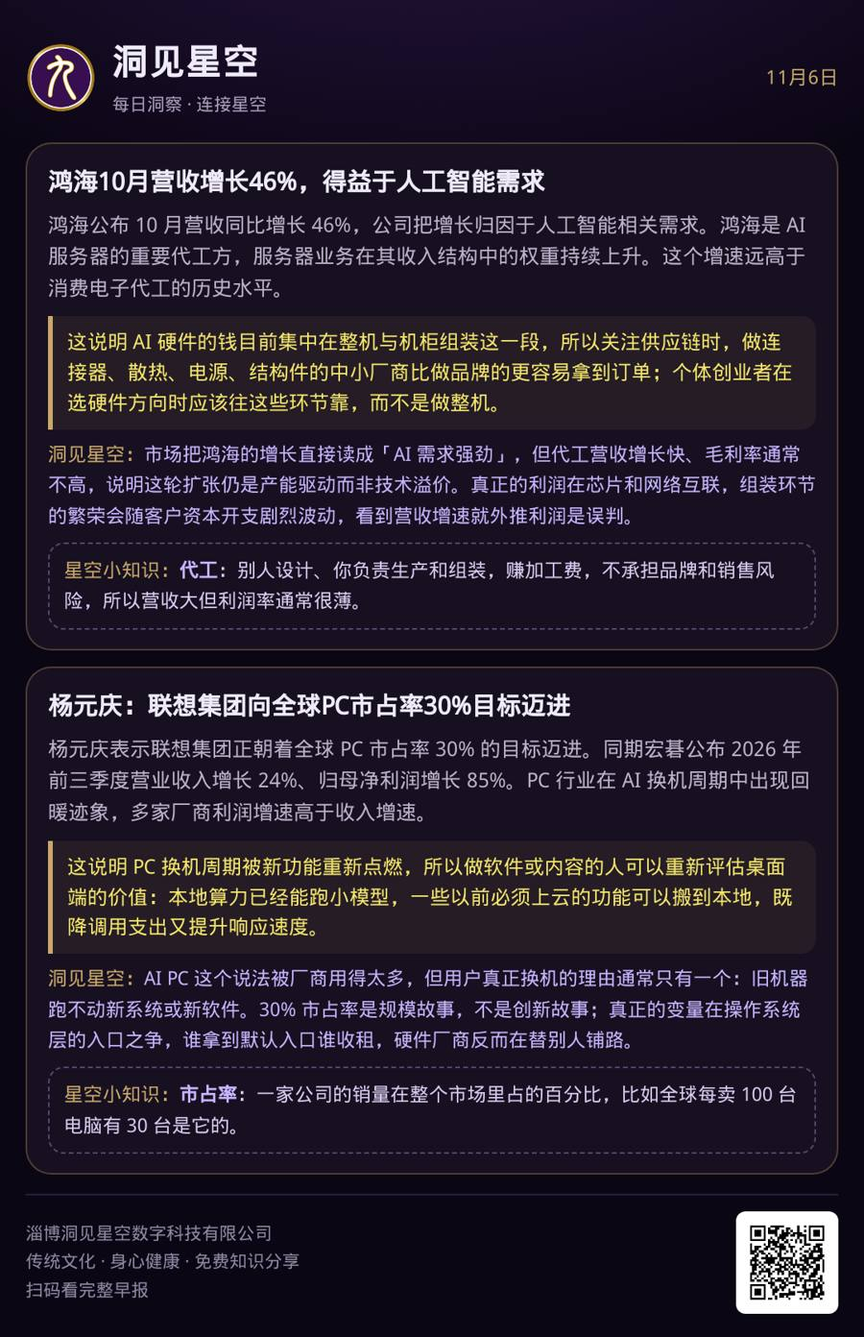
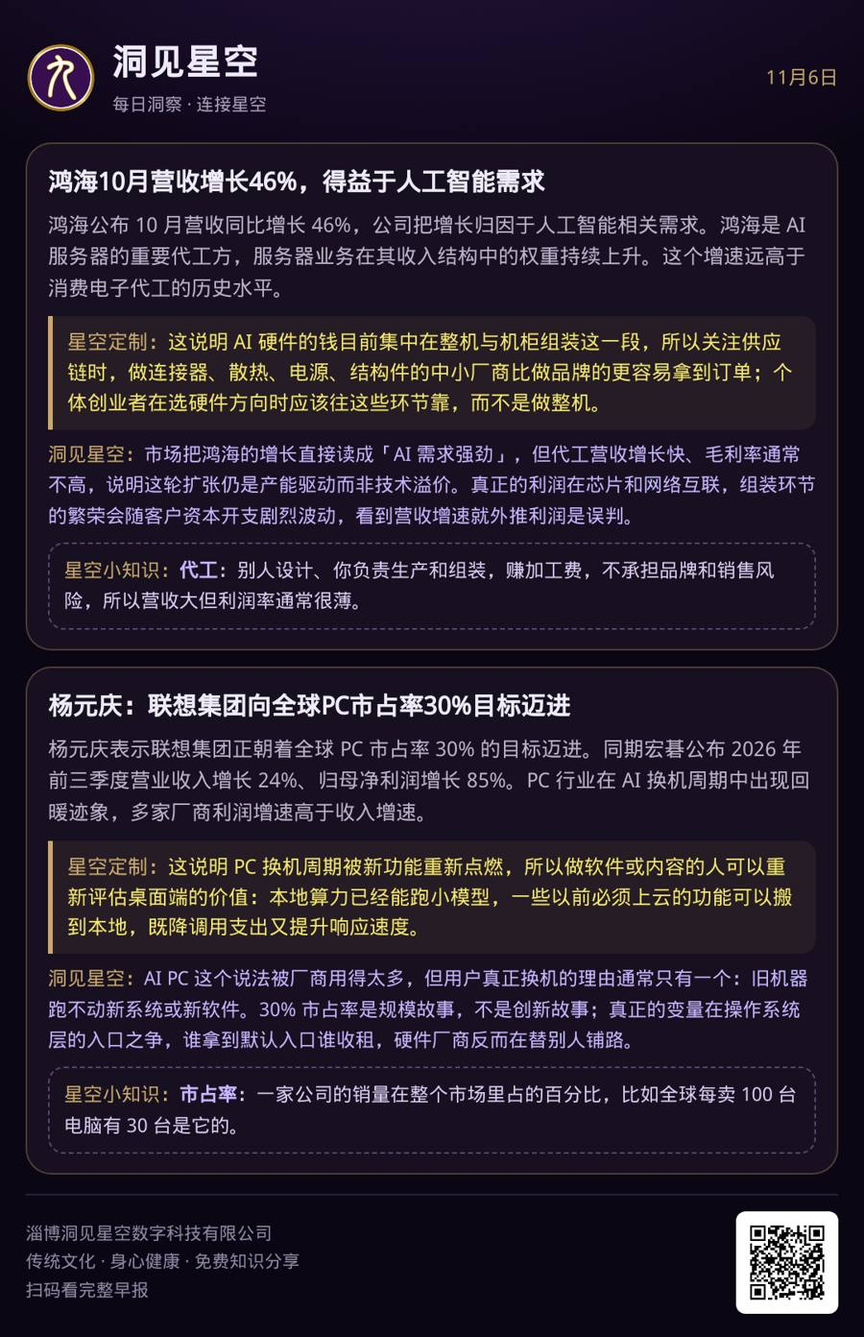
xingkong dingzhi label

Changed region(s): [[0.0622, 0.6178, 0.9333, 0.7105], [0.0622, 0.2471, 0.9022, 0.3089]]

diff --git a/2026-11-06.html b/2026-11-06.html
@@ -52,4 +52,4 @@ a{color:#b9a6ff;text-decoration:none}
 .teach{margin-top:10px;padding:10px 12px;border:1px dashed rgba(196,181,253,.35);border-radius:12px;font-size:13.5px;color:#d6ccf0}
 .teach b{color:var(--acc);font-weight:600}
 .foot{margin-top:44px;text-align:center;color:#5d5570;font-size:11px;letter-spacing:1.5px}
-.insight .tag,.teach .tag{color:#c9a86a;font-weight:600}</style></head><body><div class=grid></div><div class=wrap><div class=kicker>DONGJIAN · MORNING</div><div class=head><img class=logo src='logo.png' alt=logo><h1>洞见星空早报</h1></div><div class=sub>2026 年 11 月 6 日 · 星期五</div><h2>世界资讯 · 10</h2><div class=card><h3>银湖资本和PIF就收购游戏引擎公司Unity进行了谈判</h3><p>据报道，银湖资本与沙特公共投资基金（PIF）近期就收购游戏软件提供商 Unity 进行了谈判。Unity 是移动游戏与实时三维内容的主要开发引擎之一，大量中小开发者的作品依赖它发布。这意味着内容生产的基础工具再次成为私募资本的目标。目前谈判结果尚未公开。</p><div class=why>这说明内容生产工具的产权可能易主、授权条款可能重写，所以你在搭建内容制作流程时，要优先选导出格式通用、能被多个引擎和软件读取的方案，避免作品被单一平台的条款锁死。</div><div class=insight><span class=tag>洞见星空：</span>私募买引擎，看的是提价和订阅转化的空间，不是技术理想。主流叙事把引擎当成创作者生态，但资本视角里它更像收费站；一旦提价，中小开发者会向开源引擎和轻量网页方案迁移，下一轮工具洗牌会从定价开始，而不是从功能开始。</div><div class=teach><span class=tag>星空小知识：</span><b>游戏引擎</b>：一套用来做游戏和三维画面的软件工具，负责渲染、物理、动画，开发者在这套工具上写自己的内容，不用从零造轮子。</div><div class=chips><a class='chip acc' href='https://finance.sina.com.cn/stock/usstock/c/2026-11-06/doc-inixtxky8323323.shtml'>新浪财经</a></div></div><div class=card><h3>意力国际拟1.71亿港元收购Skyline VFX 67%股权，战略回归数码娱乐及AI媒体领域</h3><p>意力国际拟以 1.71 亿港元收购 Skyline VFX 67% 的股权，并称这是战略回归数码娱乐及 AI 媒体领域。Skyline VFX 是一家视觉特效制作公司，业务覆盖影视与广告特效。收购完成后，一家上市公司把业务重心重新拨回内容生产。</p><div class=why>这说明资本市场给「AI 加视觉内容生产」的估值仍高于传统业务，所以你如果做传统文化影像，可以把特效、虚拟制作、多语字幕这些重资产环节外包采购，团队只保留脚本、拍摄和内容判断。</div><div class=insight><span class=tag>洞见星空：</span>这轮 AI 媒体并购买的多数是产能和客户名单，不是算法。内容行业的价值正在重新回到 IP 与发行渠道，工具会被压成成本项；押注「做工具卖给创作者」的人要面对买方压价，押注「做出被记住的作品」的人反而能拿到溢价。</div><div class=teach><span class=tag>星空小知识：</span><b>视觉特效（VFX）</b>：影视和广告里实拍拍不出来的画面，靠后期软件合成出来，比如爆炸、妖兽、古代宫殿。</div><div class=chips><a class='chip acc' href='https://finance.sina.com.cn/stock/hkstock/ggscyd/2026-11-06/doc-inixtxmk5623464.shtml'>新浪财经</a></div></div><div class=card><h3>奥迪考虑追加投资30亿美元扩建美国新厂，增加3000个就业岗位</h3><p>奥迪考虑追加投资 30 亿美元扩建其美国新工厂，预计增加 3000 个就业岗位。这一决定与关税和本地化生产要求直接相关，欧洲车企正在把部分产能迁往销售市场当地。扩建涉及整车装配以及与电池相关的配套投资。</p><div class=why>这说明制造业正在按关税边界重新布局，所以做工业设计、设备说明书、技术培训类内容的人，会遇到一波「跨国工厂本地化」带来的多语种与培训资料需求，这类订单单价高、周期长，适合个体或小团队承接。</div><div class=insight><span class=tag>洞见星空：</span>产业本地化看上去创造就业，实际是把成本转嫁给消费者和供应链。真正的赢家不是单一整车品牌，而是能同时服务多地产线的设备与工业软件供应商；制造业的竞争力指标会从「规模」变成「多地合规生产的能力」。</div><div class=teach><span class=tag>星空小知识：</span><b>本地化生产</b>：不把车造好再运过去，而是直接在卖车的国家建厂生产，绕开关税和长途运输成本。</div><div class=chips><a class='chip acc' href='https://finance.sina.com.cn/stock/usstock/c/2026-11-06/doc-inixtxky8324781.shtml'>新浪财经</a></div></div><div class=card><h3>AI抛售潮中买家消失：高盛交易台电话被打爆却无人接盘，对冲基金与散户齐撤</h3><p>报道称在 AI 相关资产的抛售中，高盛交易台的电话被打爆，却找不到接盘方，对冲基金与散户同时撤出。同期有对冲基金在 10 月的 AI 股票上录得约 33% 的回撤。这反映的是流动性枯竭，而不只是价格下跌。</p><div class=why>这说明拥挤交易的退出通道很窄，所以你在选择任何与 AI 主题挂钩的理财产品时，要把「能不能及时退出」放在收益率前面，优先看开放日频率、底层资产是否透明，而不是看宣传的历史年化。</div><div class=insight><span class=tag>洞见星空：</span>主流把 AI 回调解释成「泡沫破裂」，但更准确的说法是仓位结构问题：当所有人持有同一批资产，价格发现机制会暂时失效。长期看，这类拥堵会推动资金流向叙事更分散、退出更方便的资产，而不是让人离场。</div><div class=teach><span class=tag>星空小知识：</span><b>流动性</b>：想卖的时候有没有人接手。有人接叫流动性好，没人接就只能一路降价甩卖，账面价格并不等于能拿到的钱。</div><div class=chips><a class='chip acc' href='https://finance.sina.com.cn/roll/2026-11-06/doc-inixtxmh8972935.shtml'>新浪财经</a></div></div><div class=card><h3>「大空头」伯里称无意买入Anthropic股票：将自身存亡押注在乐观预期上</h3><p>因做空次贷成名的投资人迈克尔·伯里表示无意买入 Anthropic 股票，理由是该公司把自身存亡押注在乐观预期上。Anthropic 是头部大模型公司之一，估值高度依赖企业级接口与企业服务的持续放量。这一表态出现在 AI 相关资产普遍回调的时点。</p><div class=why>这说明公开市场开始用现金流而不是故事给 AI 公司定价，所以你在选模型供应商时，要优先选有稳定企业客户、计费方式清晰的平台，避免把产品绑在靠融资续命的服务上，一旦对方调价或断供你无法迁移。</div><div class=insight><span class=tag>洞见星空：</span>主流观点认为头部模型公司「太大而不能倒」，但真正的风险不是倒闭，而是客户按价格迁移。模型能力差距在收敛，真正难被替代的是模型被嵌进工作流之后形成的切换成本，这部分价值会从模型公司转移到应用公司手里。</div><div class=teach><span class=tag>星空小知识：</span><b>企业级接口（API）</b>：程序调用另一个程序能力的通道，按调用量计费。模型公司最主要的收入来源之一就是把模型能力按次卖给别的公司。</div><div class=chips><a class='chip acc' href='https://finance.sina.com.cn/stock/usstock/c/2026-11-06/doc-inixtxma5108878.shtml'>新浪财经</a></div></div><div class=card><h3>微软对押注「新云」渐生悔意，加强审查部分数据中心项目</h3><p>据报道，微软正在加强对部分数据中心项目的审查，并对其押注「新云」模式渐生悔意。新云指专门为大模型训练出租图形处理器算力的新兴云服务商，靠长期租约锁定收入。微软此前是这类厂商最大的买家之一，如今开始重新核对租赁的期限与成本。</p><div class=why>这说明头部买家在给算力租赁踩刹车，所以你可以把「推理算力价格继续下行」当作产品设计前提，把重计算能力放在调用侧而不是自建侧，等价格下来再升级体验，不用现在就锁长约。</div><div class=insight><span class=tag>洞见星空：</span>市场普遍认为算力永远紧缺，但真正紧缺的是顶级训练集群，不是推理算力。当最大买主开始审查租约，说明供给端已经出现过冲，接下来一到两年推理单价会明显下滑，应用层的成本结构会被重写，靠卖算力赚钱的中间商最先受伤。</div><div class=teach><span class=tag>星空小知识：</span><b>新云（neocloud）</b>：不做综合云服务，只专门出租图形处理器算力给 AI 公司训练模型的新玩家，靠长期合同收租，本质是算力二房东。</div><div class=chips><a class='chip acc' href='https://finance.sina.com.cn/stock/usstock/c/2026-11-06/doc-inixtnvn9139462.shtml'>新浪科技</a></div></div><div class=card><h3>中期选举后民主党高层呼吁限制人工智能产业扩张：「立即暂停全国数据中心建设」</h3><p>中期选举后，民主党高层公开呼吁限制人工智能产业扩张，提出「立即暂停全国数据中心建设」。这一表态与美股大幅调整、AI 相关资产遭抛售出现在同一时间窗口。数据中心是训练与推理算力的物理载体，建设节奏直接决定芯片、电力、冷却设备的订单。AI 扩张第一次成为选举议题。</p><div class=why>这说明算力扩张的政治成本开始显性化，所以你在设计任何依赖大模型的产品时，要把「供应端政策变动」当成常态变量而不是意外，优先做能随时切到小模型或本地推理的方案，别把体验绑死在单一云厂商的某个机型上。</div><div class=insight><span class=tag>洞见星空：</span>主流把 AI 资本开支当成不可逆的军备竞赛，但电力、土地、水与地方政治才是真正的约束条件。一旦数据中心从「招商引资项目」变成「邻避设施」，扩张速度会被行政程序而不是芯片产能卡住。长期看算力会从集中训练转向分散推理，这对小团队是结构性利好。</div><div class=teach><span class=tag>星空小知识：</span><b>数据中心</b>：放服务器的地方，一栋楼里成千上万台机器同时跑，耗电和散热极大，所以建在哪里、用多少电都要政府批。</div><div class=chips><a class='chip acc' href='https://finance.sina.com.cn/stock/usstock/c/2026-11-06/doc-inixttce5171077.shtml'>新浪科技</a></div></div><div class=card><h3>嘉和美康被曝欠薪数月、全员降薪，部分项目加班费被要求退还</h3><p>据报道，医疗信息化公司嘉和美康被曝欠薪数月、全员降薪，部分项目的加班费被要求退还。报道称该公司近十年从未赚到真正意义上的利润。医疗信息化行业长期依赖医院项目制收入，回款周期长、定制化程度高。</p><div class=why>这说明项目制 To B 生意的现金流风险正在暴露，所以你在设计任何面向机构的产品或服务时，要坚持预付或分期到账，不要用「验收后付款」把自己绑死，尤其是对接事业单位和医院这类预算收紧的客户。</div><div class=insight><span class=tag>洞见星空：</span>医疗信息化的困境不是需求消失，而是付款方预算收紧叠加定制化过重，人力成本压不下去。行业会向标准化产品迁移，但速度快不了；真正活下来的是能把交付标准化、把每个项目的定制工时压到最低的少数厂商，规模大反而可能是负担。</div><div class=teach><span class=tag>星空小知识：</span><b>项目制</b>：一单一单按客户要求定制交付，钱要等验收之后才收，所以账面有收入但手上可能一直缺现金。</div><div class=chips><a class='chip acc' href='https://finance.sina.com.cn/stock/observe/2026-11-05/doc-inixsrrw9421431.shtml'>新浪科技</a></div></div><div class=card><h3>鸿海10月营收增长46%，得益于人工智能需求</h3><p>鸿海公布 10 月营收同比增长 46%，公司把增长归因于人工智能相关需求。鸿海是 AI 服务器的重要代工方，服务器业务在其收入结构中的权重持续上升。这个增速远高于消费电子代工的历史水平。</p><div class=why>这说明 AI 硬件的钱目前集中在整机与机柜组装这一段，所以关注供应链时，做连接器、散热、电源、结构件的中小厂商比做品牌的更容易拿到订单；个体创业者在选硬件方向时应该往这些环节靠，而不是做整机。</div><div class=insight><span class=tag>洞见星空：</span>市场把鸿海的增长直接读成「AI 需求强劲」，但代工营收增长快、毛利率通常不高，说明这轮扩张仍是产能驱动而非技术溢价。真正的利润在芯片和网络互联，组装环节的繁荣会随客户资本开支剧烈波动，看到营收增速就外推利润是误判。</div><div class=teach><span class=tag>星空小知识：</span><b>代工</b>：别人设计、你负责生产和组装，赚加工费，不承担品牌和销售风险，所以营收大但利润率通常很薄。</div><div class=chips><a class='chip acc' href='https://finance.sina.com.cn/stock/usstock/c/2026-11-05/doc-inixsrrw9425813.shtml'>新浪科技</a></div></div><div class=card><h3>杨元庆：联想集团向全球PC市占率30%目标迈进</h3><p>杨元庆表示联想集团正朝着全球 PC 市占率 30% 的目标迈进。同期宏碁公布 2026 年前三季度营业收入增长 24%、归母净利润增长 85%。PC 行业在 AI 换机周期中出现回暖迹象，多家厂商利润增速高于收入增速。</p><div class=why>这说明 PC 换机周期被新功能重新点燃，所以做软件或内容的人可以重新评估桌面端的价值：本地算力已经能跑小模型，一些以前必须上云的功能可以搬到本地，既降调用支出又提升响应速度。</div><div class=insight><span class=tag>洞见星空：</span>AI PC 这个说法被厂商用得太多，但用户真正换机的理由通常只有一个：旧机器跑不动新系统或新软件。30% 市占率是规模故事，不是创新故事；真正的变量在操作系统层的入口之争，谁拿到默认入口谁收租，硬件厂商反而在替别人铺路。</div><div class=teach><span class=tag>星空小知识：</span><b>市占率</b>：一家公司的销量在整个市场里占的百分比，比如全球每卖 100 台电脑有 30 台是它的。</div><div class=chips><a class='chip acc' href='https://finance.sina.com.cn/tob/2026-11-05/doc-inixsrrw9411130.shtml'>新浪科技</a></div></div><h2>科技 · 10</h2><div class=card><h3>极智嘉RS Hyper攀爬机器人首秀，千平方米每小时吞吐6000箱</h3><p>极智嘉在展会上首秀 RS Hyper 攀爬机器人，官方给出的指标是每千平方米每小时吞吐 6000 箱。攀爬式机器人可以在高位货架之间垂直移动，替代传统的升降机加输送线组合。仓储自动化正在从地面搬运转向立体存取。</p><div class=why>这说明立体仓储的单位面积效率又上了一个台阶，所以做实物周边或电商时可以把库存压到极低，用第三方仓的密度换自己的现金流，先验证内容带来的复购再谈备货。</div><div class=teach><span class=tag>星空小知识：</span><b>具身智能</b>：让 AI 有身体，能在真实空间里移动、抓取、操作物体，而不只是在屏幕里输出文字和图片。</div><div class=chips><a class='chip acc' href='https://finance.sina.com.cn/tob/2026-11-05/doc-inixsrrq8792885.shtml'>新浪科技</a></div></div><div class=card><h3>驭势科技升级T30无人牵引车，可自动脱挂钩对接拖斗</h3><p>驭势科技升级 T30 无人牵引车，新增自动脱挂钩能力，可以自行对接和脱离拖斗。自动脱挂钩是无人牵引车在港口、机场、工厂内部实现全流程无人化的最后几个卡点之一。此前这一步通常还需要人工介入。</p><div class=why>这说明封闭场景的无人运输已经能跑完整闭环，所以涉及线下场地运营（园区、仓库、演出场地、大型活动）的人，可以开始按「无人转运可用」来规划动线和人力配置，把搬运岗位的预算挪到内容与体验上。</div><div class=teach><span class=tag>星空小知识：</span><b>脱挂钩</b>：牵引车和拖斗之间的连接与分离，无人车要自己完成这个动作，才算全程不用人下车操作。</div><div class=chips><a class='chip acc' href='https://finance.sina.com.cn/tob/2026-11-05/doc-inixsrrs5544924.shtml'>新浪科技</a></div></div><div class=card><h3>菜鸟向合作伙伴开放全球仓网，加速物理AI产业化</h3><p>菜鸟宣布向合作伙伴开放其全球仓网，并提出加速「物理 AI」产业化。物理 AI 指把模型能力接到仓储、运输、分拣等真实设备上，而不只是屏幕里的对话。开放仓网意味着外部商家可以直接调用其海外仓储与履约节点，不必自建供应链。</p><div class=why>这说明跨境履约正在变成可调用的公共服务，所以做文化内容出海的人可以先验证内容能不能带来付费，再按订单量接入仓配，不必提前压库存、租海外仓。</div><div class=teach><span class=tag>星空小知识：</span><b>履约</b>：从用户下单到货送到手里这一段全过程，包括仓储、打包、干线运输和最后一公里配送。</div><div class=chips><a class='chip acc' href='https://finance.sina.com.cn/tech/it/2026-11-05/doc-inixtafu5952399.shtml'>新浪科技</a></div></div><div class=card><h3>爱立信张永涛：要打造「为AI而建的最佳网络」，让AI从理念走向现实</h3><p>爱立信高管在进博会期间表示，要打造「为 AI 而建的最佳网络」，让 AI 从理念走向现实。其判断是 AI 应用（视频、语音、多模态交互）对上行带宽与时延的要求远高于传统业务。运营商与设备商正把 AI 流量作为下一轮建网的依据。</p><div class=why>这说明网络侧正在为多模态交互改造，所以你做音频、视频类内容时，要按弱网和上行受限的极端条件设计缓存与降级策略，卡顿率会直接反映在完课率和复访率上。</div><div class=teach><span class=tag>星空小知识：</span><b>时延</b>：数据从发出到收到的时间差，越低越适合实时互动，比如语音对话和视频通话。</div><div class=chips><a class='chip acc' href='https://finance.sina.com.cn/roll/2026-11-05/doc-inixtafu5950983.shtml'>新浪科技</a></div></div><div class=card><h3>奥迪创新技术中心开业：聚焦驾驶辅助系统与AI智能座舱研发</h3><p>奥迪创新技术中心开业，聚焦驾驶辅助系统与 AI 智能座舱研发，并计划从 2028 年起陆续向中国市场投放四款全新车型。这意味着外资品牌把智能座舱的研发决策前移到中国市场。座舱 AI 的竞争点正从硬件屏幕转向语音与场景服务。</p><div class=why>这说明车载语音与场景服务会出现一波本土供应商窗口期，做语音内容、技能插件、场景脚本的团队值得在 2027 年前接触合资研发中心或一级供应商，越早进入越容易成为默认方案。</div><div class=teach><span class=tag>星空小知识：</span><b>智能座舱</b>：车里的那套屏幕、语音和车机系统，负责娱乐、导航、空调和人车对话，是车里面向乘客的那层 AI。</div><div class=chips><a class='chip acc' href='https://finance.sina.com.cn/tech/it/2026-11-05/doc-inixsvxn8721818.shtml'>新浪科技</a></div></div><div class=card><h3>华为鸿蒙电脑发货量破百万</h3><p>华为宣布鸿蒙电脑发货量突破百万台，公司称这是进入 PC 产业第十年的里程碑。鸿蒙电脑使用自研操作系统，应用生态仍在建设期。百万台放在 PC 行业里是很小的数字，但对一个新操作系统而言，是从零到一的门槛。</p><div class=why>这说明国产桌面系统开始有真实装机量，所以做内容或工具的人可以评估在鸿蒙上做一个轻量版本的成本与收益，平台早期缺应用，进入者更容易拿到资源位和推荐。</div><div class=teach><span class=tag>星空小知识：</span><b>应用生态</b>：一个操作系统上能用的软件和开发者总量，生态越大用户越离不开，越小越难吸引人换过来。</div><div class=chips><a class='chip acc' href='https://finance.sina.com.cn/tech/discovery/2026-11-05/doc-inixtafu5946837.shtml'>新浪科技</a></div></div><div class=card><h3>华为擎云HM650/HM650g面向政企客户，确认不在电商及线下体验门店出售</h3><p>华为擎云 HM650 / HM650g 面向政企客户，确认不在电商与线下体验门店出售。政企机型通过集采与渠道分销，不走消费者零售。这类产品强调的是可控、可管与长期供货，而不是参数性价比。</p><div class=why>这说明信创采购仍是独立渠道，所以面向机构的软件要按「进入集采目录 + 通过兼容性认证」来准备材料，走个人品牌和消费者路线进不去这个市场，两条路的打法完全不同。</div><div class=teach><span class=tag>星空小知识：</span><b>信创</b>：信息技术应用创新，指用国产软硬件替代国外产品，主要在政府和国企采购中推行，采购走专门目录。</div><div class=chips><a class='chip acc' href='https://finance.sina.com.cn/tech/digi/2026-11-05/doc-inixtafu5982695.shtml'>新浪科技</a></div></div><div class=card><h3>上汽与Momenta合作再深化，拟共建智驾合资公司</h3><p>上汽与 Momenta 的合作进一步深化，双方拟共同出资设立智能驾驶合资公司。Momenta 提供算法与数据闭环能力，上汽提供整车平台与量产规模。合资把原本的供应商关系变成了股权绑定。</p><div class=why>这说明算法公司正在被主机厂收进体内，所以做 AI 应用的团队在接大客户时，要先判断对方是想采购还是想控股：采购现金流快，合资天花板高但会稀释控制权，签之前就要想清楚要哪一种。</div><div class=teach><span class=tag>星空小知识：</span><b>数据闭环</b>：车在路上采集数据、回传训练模型、再把新模型推回车上，循环往复，模型就越来越强。</div><div class=chips><a class='chip acc' href='https://finance.sina.com.cn/tech/it/2026-11-05/doc-inixsvxw6063869.shtml'>新浪科技</a></div></div><div class=card><h3>比亚迪第二代海豹07上市：首搭云辇-M智能磁流变车身控制系统</h3><p>比亚迪第二代海豹 07 上市，首次搭载云辇-M 智能磁流变车身控制系统，置换价 13.59 万元起。磁流变减振器通过改变磁场来实时调节阻尼，响应速度远快于传统液压悬架。这项技术此前主要出现在高价车型上。</p><div class=why>这说明材料级技术正在快速下沉到十几万元车型，所以做汽车技术科普或后市场内容的人，在 2027 年前还有明显的素材红利，消费者试驾时能立刻感知的差异点会成为新的比较维度。</div><div class=teach><span class=tag>星空小知识：</span><b>阻尼</b>：减振器抑制车身弹跳的力度。阻尼大车身更稳更硬，阻尼小更软更舒适，磁流变可以毫秒级切换。</div><div class=chips><a class='chip acc' href='https://finance.sina.com.cn/tech/it/2026-11-05/doc-inixsvxq5541563.shtml'>新浪科技</a></div></div><div class=card><h3>英特尔亮相第九届进博会，展示高能效计算与生态合作成果</h3><p>英特尔在第九届进博会上展示高能效计算与生态合作成果。高能效计算的重点是在相同功耗下提供更多算力，主要面向数据中心与边缘设备。这与 AI 推理从云端下沉到终端的趋势一致，端侧能跑的任务正在变多。</p><div class=why>这说明推理算力正在向低功耗终端迁移，所以做 AI 功能时按「端侧跑小模型、云端跑大模型」分层设计，把高频轻量请求留在本地，能显著压低长期调用支出并提升响应速度。</div><div class=teach><span class=tag>星空小知识：</span><b>能效</b>：每瓦电能换来多少算力，越高越省电费。数据中心最大的成本之一就是电，所以这个指标比纯算力更受重视。</div><div class=chips><a class='chip acc' href='https://finance.sina.com.cn/roll/2026-11-05/doc-inixsrrq8787733.shtml'>新浪科技</a></div></div><h2>开源项目 · 10</h2><div class=card><div class=repo><div><div class=n><a href='https://github.com/Renhuai123/ziwei-doushu'>Renhuai123/ziwei-doushu</a></div><div class=d>紫微斗数开源排盘引擎，基于倪海厦《天纪》体系，包含完整排盘算法、四化系统、格局知识库与古籍原文数据，用 TypeScript 实现。</div></div><div class=s>★ 16206</div></div><div class=repo><div><div class=n><a href='https://github.com/SylarLong/iztro'>SylarLong/iztro</a></div><div class=d>轻量级紫微斗数排盘工具库，用于生成星盘数据结构，方便嵌入网页或其他应用。</div></div><div class=s>★ 4351</div></div><div class=repo><div><div class=n><a href='https://github.com/jangviktor-web/nihaixia'>jangviktor-web/nihaixia</a></div><div class=d>以倪海厦视角构建的中医 Agent Skill，基于其教学资料蒸馏伤寒论、金匮要略、黄帝内经、神农本草经、针灸等内容，覆盖六经辨证与八纲辨证。</div></div><div class=s>★ 4007</div></div><div class=repo><div><div class=n><a href='https://github.com/jinchenma94/bazi-skill'>jinchenma94/bazi-skill</a></div><div class=d>四柱八字命理分析技能包，用 Python 实现，可挂载到支持技能调用的模型平台上使用。</div></div><div class=s>★ 3815</div></div><div class=repo><div><div class=n><a href='https://github.com/DestinyLinker/MingLi-Bench'>DestinyLinker/MingLi-Bench</a></div><div class=d>面向中文传统命理（八字与紫微）的模型评测基准，用于量化评估大模型在这类问题上的表现。</div></div><div class=s>★ 2560</div></div><div class=repo><div><div class=n><a href='https://github.com/6tail/lunar-javascript'>6tail/lunar-javascript</a></div><div class=d>日历与历法工具库，支持公历、农历、老黄历、佛历、道历，以及节气、干支、生肖、每日宜忌等数据的计算。</div></div><div class=s>★ 1736</div></div><div class=repo><div><div class=n><a href='https://github.com/china-testing/bazi'>china-testing/bazi</a></div><div class=d>Python 八字排盘软件，能清晰展示冲刑合会、阴阳等关系，并整合了多年经验形成的评判规则，另含合婚、风水功能与手相教程。</div></div><div class=s>★ 1556</div></div></div><div class=card><div class=repo><div class=n style='color:#c9a86a'>热门 · 不限分类</div></div><div class=repo><div><div class=n><a href='https://github.com/cirosantilli/x86-bare-metal-examples'>cirosantilli/x86-bare-metal-examples</a></div><div class=d>几十个最小可运行的操作系统示例，用来学习 x86 底层系统编程，每个例子都能在虚拟机里跑起来。</div></div><div class=s>★ 5436</div></div><div class=repo><div><div class=n><a href='https://github.com/gege-circle/.github'>gege-circle/.github</a></div><div class=d>一个兴趣社群的公共仓库，用仓库的讨论区承载动漫、游戏、科技、人文、生活等话题的交流。</div></div><div class=s>★ 2081</div></div><div class=repo><div><div class=n><a href='https://github.com/OCNYang/QBox'>OCNYang/QBox</a></div><div class=d>一个安卓生活工具类 App 的开源项目，集成网络请求、图片加载等常用组件，内含新闻、笑话等多个模块。</div></div><div class=s>★ 1383</div></div></div><div class=foot>洞见星空 · 仅供学习交流，不构成投资建议</div></div></body></html>
+.insight .tag,.teach .tag{color:#c9a86a;font-weight:600}.why .tag{color:#c9a86a;font-weight:600}</style></head><body><div class=grid></div><div class=wrap><div class=kicker>DONGJIAN · MORNING</div><div class=head><img class=logo src='logo.png' alt=logo><h1>洞见星空早报</h1></div><div class=sub>2026 年 11 月 6 日 · 星期五</div><h2>世界资讯 · 10</h2><div class=card><h3>银湖资本和PIF就收购游戏引擎公司Unity进行了谈判</h3><p>据报道，银湖资本与沙特公共投资基金（PIF）近期就收购游戏软件提供商 Unity 进行了谈判。Unity 是移动游戏与实时三维内容的主要开发引擎之一，大量中小开发者的作品依赖它发布。这意味着内容生产的基础工具再次成为私募资本的目标。目前谈判结果尚未公开。</p><div class=why><span class=tag>星空定制：</span>这说明内容生产工具的产权可能易主、授权条款可能重写，所以你在搭建内容制作流程时，要优先选导出格式通用、能被多个引擎和软件读取的方案，避免作品被单一平台的条款锁死。</div><div class=insight><span class=tag>洞见星空：</span>私募买引擎，看的是提价和订阅转化的空间，不是技术理想。主流叙事把引擎当成创作者生态，但资本视角里它更像收费站；一旦提价，中小开发者会向开源引擎和轻量网页方案迁移，下一轮工具洗牌会从定价开始，而不是从功能开始。</div><div class=teach><span class=tag>星空小知识：</span><b>游戏引擎</b>：一套用来做游戏和三维画面的软件工具，负责渲染、物理、动画，开发者在这套工具上写自己的内容，不用从零造轮子。</div><div class=chips><a class='chip acc' href='https://finance.sina.com.cn/stock/usstock/c/2026-11-06/doc-inixtxky8323323.shtml'>新浪财经</a></div></div><div class=card><h3>意力国际拟1.71亿港元收购Skyline VFX 67%股权，战略回归数码娱乐及AI媒体领域</h3><p>意力国际拟以 1.71 亿港元收购 Skyline VFX 67% 的股权，并称这是战略回归数码娱乐及 AI 媒体领域。Skyline VFX 是一家视觉特效制作公司，业务覆盖影视与广告特效。收购完成后，一家上市公司把业务重心重新拨回内容生产。</p><div class=why><span class=tag>星空定制：</span>这说明资本市场给「AI 加视觉内容生产」的估值仍高于传统业务，所以你如果做传统文化影像，可以把特效、虚拟制作、多语字幕这些重资产环节外包采购，团队只保留脚本、拍摄和内容判断。</div><div class=insight><span class=tag>洞见星空：</span>这轮 AI 媒体并购买的多数是产能和客户名单，不是算法。内容行业的价值正在重新回到 IP 与发行渠道，工具会被压成成本项；押注「做工具卖给创作者」的人要面对买方压价，押注「做出被记住的作品」的人反而能拿到溢价。</div><div class=teach><span class=tag>星空小知识：</span><b>视觉特效（VFX）</b>：影视和广告里实拍拍不出来的画面，靠后期软件合成出来，比如爆炸、妖兽、古代宫殿。</div><div class=chips><a class='chip acc' href='https://finance.sina.com.cn/stock/hkstock/ggscyd/2026-11-06/doc-inixtxmk5623464.shtml'>新浪财经</a></div></div><div class=card><h3>奥迪考虑追加投资30亿美元扩建美国新厂，增加3000个就业岗位</h3><p>奥迪考虑追加投资 30 亿美元扩建其美国新工厂，预计增加 3000 个就业岗位。这一决定与关税和本地化生产要求直接相关，欧洲车企正在把部分产能迁往销售市场当地。扩建涉及整车装配以及与电池相关的配套投资。</p><div class=why><span class=tag>星空定制：</span>这说明制造业正在按关税边界重新布局，所以做工业设计、设备说明书、技术培训类内容的人，会遇到一波「跨国工厂本地化」带来的多语种与培训资料需求，这类订单单价高、周期长，适合个体或小团队承接。</div><div class=insight><span class=tag>洞见星空：</span>产业本地化看上去创造就业，实际是把成本转嫁给消费者和供应链。真正的赢家不是单一整车品牌，而是能同时服务多地产线的设备与工业软件供应商；制造业的竞争力指标会从「规模」变成「多地合规生产的能力」。</div><div class=teach><span class=tag>星空小知识：</span><b>本地化生产</b>：不把车造好再运过去，而是直接在卖车的国家建厂生产，绕开关税和长途运输成本。</div><div class=chips><a class='chip acc' href='https://finance.sina.com.cn/stock/usstock/c/2026-11-06/doc-inixtxky8324781.shtml'>新浪财经</a></div></div><div class=card><h3>AI抛售潮中买家消失：高盛交易台电话被打爆却无人接盘，对冲基金与散户齐撤</h3><p>报道称在 AI 相关资产的抛售中，高盛交易台的电话被打爆，却找不到接盘方，对冲基金与散户同时撤出。同期有对冲基金在 10 月的 AI 股票上录得约 33% 的回撤。这反映的是流动性枯竭，而不只是价格下跌。</p><div class=why><span class=tag>星空定制：</span>这说明拥挤交易的退出通道很窄，所以你在选择任何与 AI 主题挂钩的理财产品时，要把「能不能及时退出」放在收益率前面，优先看开放日频率、底层资产是否透明，而不是看宣传的历史年化。</div><div class=insight><span class=tag>洞见星空：</span>主流把 AI 回调解释成「泡沫破裂」，但更准确的说法是仓位结构问题：当所有人持有同一批资产，价格发现机制会暂时失效。长期看，这类拥堵会推动资金流向叙事更分散、退出更方便的资产，而不是让人离场。</div><div class=teach><span class=tag>星空小知识：</span><b>流动性</b>：想卖的时候有没有人接手。有人接叫流动性好，没人接就只能一路降价甩卖，账面价格并不等于能拿到的钱。</div><div class=chips><a class='chip acc' href='https://finance.sina.com.cn/roll/2026-11-06/doc-inixtxmh8972935.shtml'>新浪财经</a></div></div><div class=card><h3>「大空头」伯里称无意买入Anthropic股票：将自身存亡押注在乐观预期上</h3><p>因做空次贷成名的投资人迈克尔·伯里表示无意买入 Anthropic 股票，理由是该公司把自身存亡押注在乐观预期上。Anthropic 是头部大模型公司之一，估值高度依赖企业级接口与企业服务的持续放量。这一表态出现在 AI 相关资产普遍回调的时点。</p><div class=why><span class=tag>星空定制：</span>这说明公开市场开始用现金流而不是故事给 AI 公司定价，所以你在选模型供应商时，要优先选有稳定企业客户、计费方式清晰的平台，避免把产品绑在靠融资续命的服务上，一旦对方调价或断供你无法迁移。</div><div class=insight><span class=tag>洞见星空：</span>主流观点认为头部模型公司「太大而不能倒」，但真正的风险不是倒闭，而是客户按价格迁移。模型能力差距在收敛，真正难被替代的是模型被嵌进工作流之后形成的切换成本，这部分价值会从模型公司转移到应用公司手里。</div><div class=teach><span class=tag>星空小知识：</span><b>企业级接口（API）</b>：程序调用另一个程序能力的通道，按调用量计费。模型公司最主要的收入来源之一就是把模型能力按次卖给别的公司。</div><div class=chips><a class='chip acc' href='https://finance.sina.com.cn/stock/usstock/c/2026-11-06/doc-inixtxma5108878.shtml'>新浪财经</a></div></div><div class=card><h3>微软对押注「新云」渐生悔意，加强审查部分数据中心项目</h3><p>据报道，微软正在加强对部分数据中心项目的审查，并对其押注「新云」模式渐生悔意。新云指专门为大模型训练出租图形处理器算力的新兴云服务商，靠长期租约锁定收入。微软此前是这类厂商最大的买家之一，如今开始重新核对租赁的期限与成本。</p><div class=why><span class=tag>星空定制：</span>这说明头部买家在给算力租赁踩刹车，所以你可以把「推理算力价格继续下行」当作产品设计前提，把重计算能力放在调用侧而不是自建侧，等价格下来再升级体验，不用现在就锁长约。</div><div class=insight><span class=tag>洞见星空：</span>市场普遍认为算力永远紧缺，但真正紧缺的是顶级训练集群，不是推理算力。当最大买主开始审查租约，说明供给端已经出现过冲，接下来一到两年推理单价会明显下滑，应用层的成本结构会被重写，靠卖算力赚钱的中间商最先受伤。</div><div class=teach><span class=tag>星空小知识：</span><b>新云（neocloud）</b>：不做综合云服务，只专门出租图形处理器算力给 AI 公司训练模型的新玩家，靠长期合同收租，本质是算力二房东。</div><div class=chips><a class='chip acc' href='https://finance.sina.com.cn/stock/usstock/c/2026-11-06/doc-inixtnvn9139462.shtml'>新浪科技</a></div></div><div class=card><h3>中期选举后民主党高层呼吁限制人工智能产业扩张：「立即暂停全国数据中心建设」</h3><p>中期选举后，民主党高层公开呼吁限制人工智能产业扩张，提出「立即暂停全国数据中心建设」。这一表态与美股大幅调整、AI 相关资产遭抛售出现在同一时间窗口。数据中心是训练与推理算力的物理载体，建设节奏直接决定芯片、电力、冷却设备的订单。AI 扩张第一次成为选举议题。</p><div class=why><span class=tag>星空定制：</span>这说明算力扩张的政治成本开始显性化，所以你在设计任何依赖大模型的产品时，要把「供应端政策变动」当成常态变量而不是意外，优先做能随时切到小模型或本地推理的方案，别把体验绑死在单一云厂商的某个机型上。</div><div class=insight><span class=tag>洞见星空：</span>主流把 AI 资本开支当成不可逆的军备竞赛，但电力、土地、水与地方政治才是真正的约束条件。一旦数据中心从「招商引资项目」变成「邻避设施」，扩张速度会被行政程序而不是芯片产能卡住。长期看算力会从集中训练转向分散推理，这对小团队是结构性利好。</div><div class=teach><span class=tag>星空小知识：</span><b>数据中心</b>：放服务器的地方，一栋楼里成千上万台机器同时跑，耗电和散热极大，所以建在哪里、用多少电都要政府批。</div><div class=chips><a class='chip acc' href='https://finance.sina.com.cn/stock/usstock/c/2026-11-06/doc-inixttce5171077.shtml'>新浪科技</a></div></div><div class=card><h3>嘉和美康被曝欠薪数月、全员降薪，部分项目加班费被要求退还</h3><p>据报道，医疗信息化公司嘉和美康被曝欠薪数月、全员降薪，部分项目的加班费被要求退还。报道称该公司近十年从未赚到真正意义上的利润。医疗信息化行业长期依赖医院项目制收入，回款周期长、定制化程度高。</p><div class=why><span class=tag>星空定制：</span>这说明项目制 To B 生意的现金流风险正在暴露，所以你在设计任何面向机构的产品或服务时，要坚持预付或分期到账，不要用「验收后付款」把自己绑死，尤其是对接事业单位和医院这类预算收紧的客户。</div><div class=insight><span class=tag>洞见星空：</span>医疗信息化的困境不是需求消失，而是付款方预算收紧叠加定制化过重，人力成本压不下去。行业会向标准化产品迁移，但速度快不了；真正活下来的是能把交付标准化、把每个项目的定制工时压到最低的少数厂商，规模大反而可能是负担。</div><div class=teach><span class=tag>星空小知识：</span><b>项目制</b>：一单一单按客户要求定制交付，钱要等验收之后才收，所以账面有收入但手上可能一直缺现金。</div><div class=chips><a class='chip acc' href='https://finance.sina.com.cn/stock/observe/2026-11-05/doc-inixsrrw9421431.shtml'>新浪科技</a></div></div><div class=card><h3>鸿海10月营收增长46%，得益于人工智能需求</h3><p>鸿海公布 10 月营收同比增长 46%，公司把增长归因于人工智能相关需求。鸿海是 AI 服务器的重要代工方，服务器业务在其收入结构中的权重持续上升。这个增速远高于消费电子代工的历史水平。</p><div class=why><span class=tag>星空定制：</span>这说明 AI 硬件的钱目前集中在整机与机柜组装这一段，所以关注供应链时，做连接器、散热、电源、结构件的中小厂商比做品牌的更容易拿到订单；个体创业者在选硬件方向时应该往这些环节靠，而不是做整机。</div><div class=insight><span class=tag>洞见星空：</span>市场把鸿海的增长直接读成「AI 需求强劲」，但代工营收增长快、毛利率通常不高，说明这轮扩张仍是产能驱动而非技术溢价。真正的利润在芯片和网络互联，组装环节的繁荣会随客户资本开支剧烈波动，看到营收增速就外推利润是误判。</div><div class=teach><span class=tag>星空小知识：</span><b>代工</b>：别人设计、你负责生产和组装，赚加工费，不承担品牌和销售风险，所以营收大但利润率通常很薄。</div><div class=chips><a class='chip acc' href='https://finance.sina.com.cn/stock/usstock/c/2026-11-05/doc-inixsrrw9425813.shtml'>新浪科技</a></div></div><div class=card><h3>杨元庆：联想集团向全球PC市占率30%目标迈进</h3><p>杨元庆表示联想集团正朝着全球 PC 市占率 30% 的目标迈进。同期宏碁公布 2026 年前三季度营业收入增长 24%、归母净利润增长 85%。PC 行业在 AI 换机周期中出现回暖迹象，多家厂商利润增速高于收入增速。</p><div class=why><span class=tag>星空定制：</span>这说明 PC 换机周期被新功能重新点燃，所以做软件或内容的人可以重新评估桌面端的价值：本地算力已经能跑小模型，一些以前必须上云的功能可以搬到本地，既降调用支出又提升响应速度。</div><div class=insight><span class=tag>洞见星空：</span>AI PC 这个说法被厂商用得太多，但用户真正换机的理由通常只有一个：旧机器跑不动新系统或新软件。30% 市占率是规模故事，不是创新故事；真正的变量在操作系统层的入口之争，谁拿到默认入口谁收租，硬件厂商反而在替别人铺路。</div><div class=teach><span class=tag>星空小知识：</span><b>市占率</b>：一家公司的销量在整个市场里占的百分比，比如全球每卖 100 台电脑有 30 台是它的。</div><div class=chips><a class='chip acc' href='https://finance.sina.com.cn/tob/2026-11-05/doc-inixsrrw9411130.shtml'>新浪科技</a></div></div><h2>科技 · 10</h2><div class=card><h3>极智嘉RS Hyper攀爬机器人首秀，千平方米每小时吞吐6000箱</h3><p>极智嘉在展会上首秀 RS Hyper 攀爬机器人，官方给出的指标是每千平方米每小时吞吐 6000 箱。攀爬式机器人可以在高位货架之间垂直移动，替代传统的升降机加输送线组合。仓储自动化正在从地面搬运转向立体存取。</p><div class=why><span class=tag>星空定制：</span>这说明立体仓储的单位面积效率又上了一个台阶，所以做实物周边或电商时可以把库存压到极低，用第三方仓的密度换自己的现金流，先验证内容带来的复购再谈备货。</div><div class=teach><span class=tag>星空小知识：</span><b>具身智能</b>：让 AI 有身体，能在真实空间里移动、抓取、操作物体，而不只是在屏幕里输出文字和图片。</div><div class=chips><a class='chip acc' href='https://finance.sina.com.cn/tob/2026-11-05/doc-inixsrrq8792885.shtml'>新浪科技</a></div></div><div class=card><h3>驭势科技升级T30无人牵引车，可自动脱挂钩对接拖斗</h3><p>驭势科技升级 T30 无人牵引车，新增自动脱挂钩能力，可以自行对接和脱离拖斗。自动脱挂钩是无人牵引车在港口、机场、工厂内部实现全流程无人化的最后几个卡点之一。此前这一步通常还需要人工介入。</p><div class=why><span class=tag>星空定制：</span>这说明封闭场景的无人运输已经能跑完整闭环，所以涉及线下场地运营（园区、仓库、演出场地、大型活动）的人，可以开始按「无人转运可用」来规划动线和人力配置，把搬运岗位的预算挪到内容与体验上。</div><div class=teach><span class=tag>星空小知识：</span><b>脱挂钩</b>：牵引车和拖斗之间的连接与分离，无人车要自己完成这个动作，才算全程不用人下车操作。</div><div class=chips><a class='chip acc' href='https://finance.sina.com.cn/tob/2026-11-05/doc-inixsrrs5544924.shtml'>新浪科技</a></div></div><div class=card><h3>菜鸟向合作伙伴开放全球仓网，加速物理AI产业化</h3><p>菜鸟宣布向合作伙伴开放其全球仓网，并提出加速「物理 AI」产业化。物理 AI 指把模型能力接到仓储、运输、分拣等真实设备上，而不只是屏幕里的对话。开放仓网意味着外部商家可以直接调用其海外仓储与履约节点，不必自建供应链。</p><div class=why><span class=tag>星空定制：</span>这说明跨境履约正在变成可调用的公共服务，所以做文化内容出海的人可以先验证内容能不能带来付费，再按订单量接入仓配，不必提前压库存、租海外仓。</div><div class=teach><span class=tag>星空小知识：</span><b>履约</b>：从用户下单到货送到手里这一段全过程，包括仓储、打包、干线运输和最后一公里配送。</div><div class=chips><a class='chip acc' href='https://finance.sina.com.cn/tech/it/2026-11-05/doc-inixtafu5952399.shtml'>新浪科技</a></div></div><div class=card><h3>爱立信张永涛：要打造「为AI而建的最佳网络」，让AI从理念走向现实</h3><p>爱立信高管在进博会期间表示，要打造「为 AI 而建的最佳网络」，让 AI 从理念走向现实。其判断是 AI 应用（视频、语音、多模态交互）对上行带宽与时延的要求远高于传统业务。运营商与设备商正把 AI 流量作为下一轮建网的依据。</p><div class=why><span class=tag>星空定制：</span>这说明网络侧正在为多模态交互改造，所以你做音频、视频类内容时，要按弱网和上行受限的极端条件设计缓存与降级策略，卡顿率会直接反映在完课率和复访率上。</div><div class=teach><span class=tag>星空小知识：</span><b>时延</b>：数据从发出到收到的时间差，越低越适合实时互动，比如语音对话和视频通话。</div><div class=chips><a class='chip acc' href='https://finance.sina.com.cn/roll/2026-11-05/doc-inixtafu5950983.shtml'>新浪科技</a></div></div><div class=card><h3>奥迪创新技术中心开业：聚焦驾驶辅助系统与AI智能座舱研发</h3><p>奥迪创新技术中心开业，聚焦驾驶辅助系统与 AI 智能座舱研发，并计划从 2028 年起陆续向中国市场投放四款全新车型。这意味着外资品牌把智能座舱的研发决策前移到中国市场。座舱 AI 的竞争点正从硬件屏幕转向语音与场景服务。</p><div class=why><span class=tag>星空定制：</span>这说明车载语音与场景服务会出现一波本土供应商窗口期，做语音内容、技能插件、场景脚本的团队值得在 2027 年前接触合资研发中心或一级供应商，越早进入越容易成为默认方案。</div><div class=teach><span class=tag>星空小知识：</span><b>智能座舱</b>：车里的那套屏幕、语音和车机系统，负责娱乐、导航、空调和人车对话，是车里面向乘客的那层 AI。</div><div class=chips><a class='chip acc' href='https://finance.sina.com.cn/tech/it/2026-11-05/doc-inixsvxn8721818.shtml'>新浪科技</a></div></div><div class=card><h3>华为鸿蒙电脑发货量破百万</h3><p>华为宣布鸿蒙电脑发货量突破百万台，公司称这是进入 PC 产业第十年的里程碑。鸿蒙电脑使用自研操作系统，应用生态仍在建设期。百万台放在 PC 行业里是很小的数字，但对一个新操作系统而言，是从零到一的门槛。</p><div class=why><span class=tag>星空定制：</span>这说明国产桌面系统开始有真实装机量，所以做内容或工具的人可以评估在鸿蒙上做一个轻量版本的成本与收益，平台早期缺应用，进入者更容易拿到资源位和推荐。</div><div class=teach><span class=tag>星空小知识：</span><b>应用生态</b>：一个操作系统上能用的软件和开发者总量，生态越大用户越离不开，越小越难吸引人换过来。</div><div class=chips><a class='chip acc' href='https://finance.sina.com.cn/tech/discovery/2026-11-05/doc-inixtafu5946837.shtml'>新浪科技</a></div></div><div class=card><h3>华为擎云HM650/HM650g面向政企客户，确认不在电商及线下体验门店出售</h3><p>华为擎云 HM650 / HM650g 面向政企客户，确认不在电商与线下体验门店出售。政企机型通过集采与渠道分销，不走消费者零售。这类产品强调的是可控、可管与长期供货，而不是参数性价比。</p><div class=why><span class=tag>星空定制：</span>这说明信创采购仍是独立渠道，所以面向机构的软件要按「进入集采目录 + 通过兼容性认证」来准备材料，走个人品牌和消费者路线进不去这个市场，两条路的打法完全不同。</div><div class=teach><span class=tag>星空小知识：</span><b>信创</b>：信息技术应用创新，指用国产软硬件替代国外产品，主要在政府和国企采购中推行，采购走专门目录。</div><div class=chips><a class='chip acc' href='https://finance.sina.com.cn/tech/digi/2026-11-05/doc-inixtafu5982695.shtml'>新浪科技</a></div></div><div class=card><h3>上汽与Momenta合作再深化，拟共建智驾合资公司</h3><p>上汽与 Momenta 的合作进一步深化，双方拟共同出资设立智能驾驶合资公司。Momenta 提供算法与数据闭环能力，上汽提供整车平台与量产规模。合资把原本的供应商关系变成了股权绑定。</p><div class=why><span class=tag>星空定制：</span>这说明算法公司正在被主机厂收进体内，所以做 AI 应用的团队在接大客户时，要先判断对方是想采购还是想控股：采购现金流快，合资天花板高但会稀释控制权，签之前就要想清楚要哪一种。</div><div class=teach><span class=tag>星空小知识：</span><b>数据闭环</b>：车在路上采集数据、回传训练模型、再把新模型推回车上，循环往复，模型就越来越强。</div><div class=chips><a class='chip acc' href='https://finance.sina.com.cn/tech/it/2026-11-05/doc-inixsvxw6063869.shtml'>新浪科技</a></div></div><div class=card><h3>比亚迪第二代海豹07上市：首搭云辇-M智能磁流变车身控制系统</h3><p>比亚迪第二代海豹 07 上市，首次搭载云辇-M 智能磁流变车身控制系统，置换价 13.59 万元起。磁流变减振器通过改变磁场来实时调节阻尼，响应速度远快于传统液压悬架。这项技术此前主要出现在高价车型上。</p><div class=why><span class=tag>星空定制：</span>这说明材料级技术正在快速下沉到十几万元车型，所以做汽车技术科普或后市场内容的人，在 2027 年前还有明显的素材红利，消费者试驾时能立刻感知的差异点会成为新的比较维度。</div><div class=teach><span class=tag>星空小知识：</span><b>阻尼</b>：减振器抑制车身弹跳的力度。阻尼大车身更稳更硬，阻尼小更软更舒适，磁流变可以毫秒级切换。</div><div class=chips><a class='chip acc' href='https://finance.sina.com.cn/tech/it/2026-11-05/doc-inixsvxq5541563.shtml'>新浪科技</a></div></div><div class=card><h3>英特尔亮相第九届进博会，展示高能效计算与生态合作成果</h3><p>英特尔在第九届进博会上展示高能效计算与生态合作成果。高能效计算的重点是在相同功耗下提供更多算力，主要面向数据中心与边缘设备。这与 AI 推理从云端下沉到终端的趋势一致，端侧能跑的任务正在变多。</p><div class=why><span class=tag>星空定制：</span>这说明推理算力正在向低功耗终端迁移，所以做 AI 功能时按「端侧跑小模型、云端跑大模型」分层设计，把高频轻量请求留在本地，能显著压低长期调用支出并提升响应速度。</div><div class=teach><span class=tag>星空小知识：</span><b>能效</b>：每瓦电能换来多少算力，越高越省电费。数据中心最大的成本之一就是电，所以这个指标比纯算力更受重视。</div><div class=chips><a class='chip acc' href='https://finance.sina.com.cn/roll/2026-11-05/doc-inixsrrq8787733.shtml'>新浪科技</a></div></div><h2>开源项目 · 10</h2><div class=card><div class=repo><div><div class=n><a href='https://github.com/Renhuai123/ziwei-doushu'>Renhuai123/ziwei-doushu</a></div><div class=d>紫微斗数开源排盘引擎，基于倪海厦《天纪》体系，包含完整排盘算法、四化系统、格局知识库与古籍原文数据，用 TypeScript 实现。</div></div><div class=s>★ 16206</div></div><div class=repo><div><div class=n><a href='https://github.com/SylarLong/iztro'>SylarLong/iztro</a></div><div class=d>轻量级紫微斗数排盘工具库，用于生成星盘数据结构，方便嵌入网页或其他应用。</div></div><div class=s>★ 4351</div></div><div class=repo><div><div class=n><a href='https://github.com/jangviktor-web/nihaixia'>jangviktor-web/nihaixia</a></div><div class=d>以倪海厦视角构建的中医 Agent Skill，基于其教学资料蒸馏伤寒论、金匮要略、黄帝内经、神农本草经、针灸等内容，覆盖六经辨证与八纲辨证。</div></div><div class=s>★ 4007</div></div><div class=repo><div><div class=n><a href='https://github.com/jinchenma94/bazi-skill'>jinchenma94/bazi-skill</a></div><div class=d>四柱八字命理分析技能包，用 Python 实现，可挂载到支持技能调用的模型平台上使用。</div></div><div class=s>★ 3815</div></div><div class=repo><div><div class=n><a href='https://github.com/DestinyLinker/MingLi-Bench'>DestinyLinker/MingLi-Bench</a></div><div class=d>面向中文传统命理（八字与紫微）的模型评测基准，用于量化评估大模型在这类问题上的表现。</div></div><div class=s>★ 2560</div></div><div class=repo><div><div class=n><a href='https://github.com/6tail/lunar-javascript'>6tail/lunar-javascript</a></div><div class=d>日历与历法工具库，支持公历、农历、老黄历、佛历、道历，以及节气、干支、生肖、每日宜忌等数据的计算。</div></div><div class=s>★ 1736</div></div><div class=repo><div><div class=n><a href='https://github.com/china-testing/bazi'>china-testing/bazi</a></div><div class=d>Python 八字排盘软件，能清晰展示冲刑合会、阴阳等关系，并整合了多年经验形成的评判规则，另含合婚、风水功能与手相教程。</div></div><div class=s>★ 1556</div></div></div><div class=card><div class=repo><div class=n style='color:#c9a86a'>热门 · 不限分类</div></div><div class=repo><div><div class=n><a href='https://github.com/cirosantilli/x86-bare-metal-examples'>cirosantilli/x86-bare-metal-examples</a></div><div class=d>几十个最小可运行的操作系统示例，用来学习 x86 底层系统编程，每个例子都能在虚拟机里跑起来。</div></div><div class=s>★ 5436</div></div><div class=repo><div><div class=n><a href='https://github.com/gege-circle/.github'>gege-circle/.github</a></div><div class=d>一个兴趣社群的公共仓库，用仓库的讨论区承载动漫、游戏、科技、人文、生活等话题的交流。</div></div><div class=s>★ 2081</div></div><div class=repo><div><div class=n><a href='https://github.com/OCNYang/QBox'>OCNYang/QBox</a></div><div class=d>一个安卓生活工具类 App 的开源项目，集成网络请求、图片加载等常用组件，内含新闻、笑话等多个模块。</div></div><div class=s>★ 1383</div></div></div><div class=foot>洞见星空 · 仅供学习交流，不构成投资建议</div></div></body></html>
